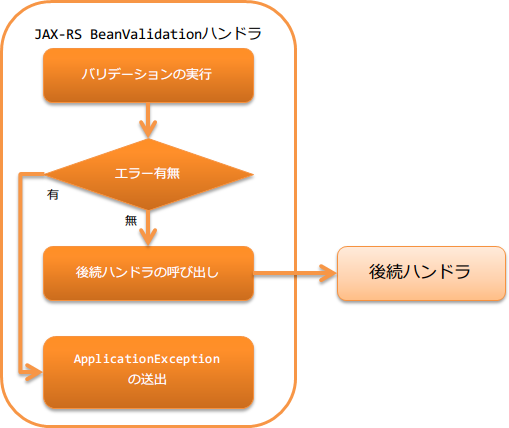
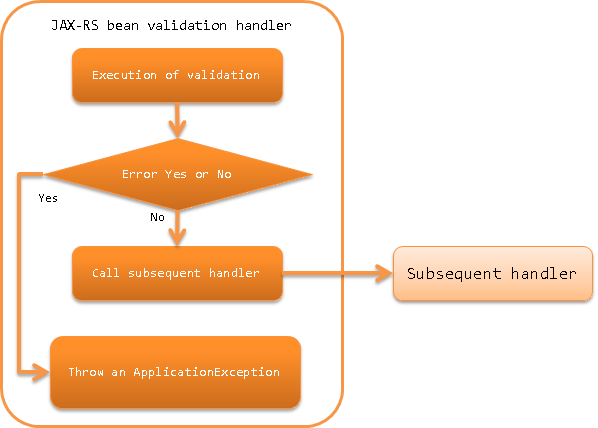
JAX-RS BeanValidationハンドラページを英語化

diff --git a/en/application_framework/application_framework/handlers/rest/jaxrs_bean_validation_handler.rst b/en/application_framework/application_framework/handlers/rest/jaxrs_bean_validation_handler.rst
@@ -1,29 +1,29 @@
 .. _jaxrs_bean_validation_handler:
 
-JAX-RS BeanValidationハンドラ
+JAX-RS BeanValidation Handler
 ==================================================
-.. contents:: 目次
+.. contents:: Table of contents
   :depth: 3
   :local:
 
-本ハンドラは、リソース(アクション)クラスが受け取るForm(Bean)に対して、:ref:`bean_validation` を実行する。
-バリデーションでバリデーションエラーが発生した場合には、後続のハンドラに処理は委譲せずに、
-:java:extdoc:`ApplicationException <nablarch.core.message.ApplicationException>` を送出して処理を終了する。
+This handler executes :ref:`bean_validation` for Form (Bean) received by the resource (action) class.
+If a validation error occurs during validation, the process is not delegated to the subsequent handler,
+and the process is ended after sending :java:extdoc:`ApplicationException <nablarch.core.message.ApplicationException>`.
 
-本ハンドラでは、以下の処理を行う。
+This handler performs the following process.
 
-* リソース(アクション)クラスのメソッドが受け取るFormに対する :ref:`bean_validation` を行う。
+* Performs :ref:`bean_validation` for the form received by the resource (action) class method.
 
-処理の流れは以下のとおり。
+The process flow is as follows.
 
 .. image:: ../images/JaxRsBeanValidationHandler/flow.png
   :scale: 75
-  
-ハンドラクラス名
+
+Handler class name
 --------------------------------------------------
 * :java:extdoc:`nablarch.fw.jaxrs.JaxRsBeanValidationHandler`
 
-モジュール一覧
+Module list
 --------------------------------------------------
 .. code-block:: xml
 
@@ -32,28 +32,28 @@ JAX-RS BeanValidationハンドラ
     <artifactId>nablarch-fw-jaxrs</artifactId>
   </dependency>
 
-  <!-- Bean Validationのモジュール -->
+  <!-- Bean Validation module -->
   <dependency>
     <groupId>com.nablarch.framework</groupId>
     <artifactId>nablarch-core-validation-ee</artifactId>
   </dependency>
 
-制約
+Constraints
 ------------------------------
-:ref:`body_convert_handler` よりも後ろに設定すること
-  このハンドラは、 :ref:`body_convert_handler` がリクエストボディから変換したForm(Bean)に対してバリデーションを行うため。
+Configure this handler after the :ref:`body_convert_handler`
+  Since this handler is for the validation of Form (Bean) converted from the request body by the :ref:`body_convert_handler`.
 
-リソース(アクション)で受け取るForm(Bean)に対してバリデーションを実行する
+Execute validation for Form (Bean) received by resource (action)
 ----------------------------------------------------------------------------------------------------
-リソース(アクション)のメソッドで受け取るForm(Bean)に対して、バリデーションを実行したい場合は、
-そのメソッドに対して :java:extdoc:`Valid <javax.validation.Valid>` アノテーションを設定する。
+To validate the Form (Bean) received by the resource (action) method,
+configure :java:extdoc:`Valid <javax.validation.Valid>` annotation for that method.
 
-以下に例を示す。
+An example is shown below.
 
 .. code-block:: java
 
-  // Personオブジェクトに対してバリデーションを実行したいので、
-  // Validアノテーションを設定する。
+  // Since validation has to be performed on the Person object,
+  // configure a Valid annotation.
   @POST
   @Consumes(MediaType.APPLICATION_JSON)
   @Valid
